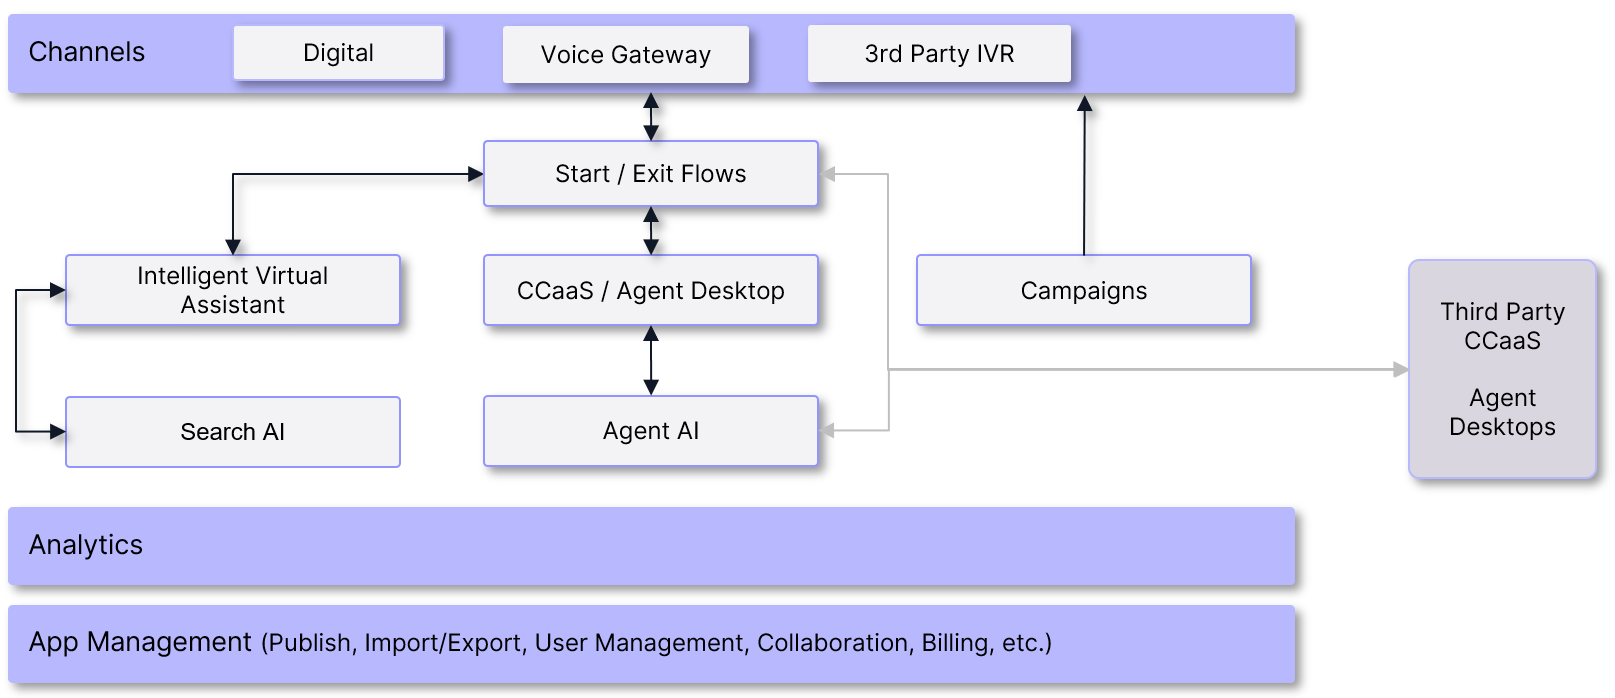
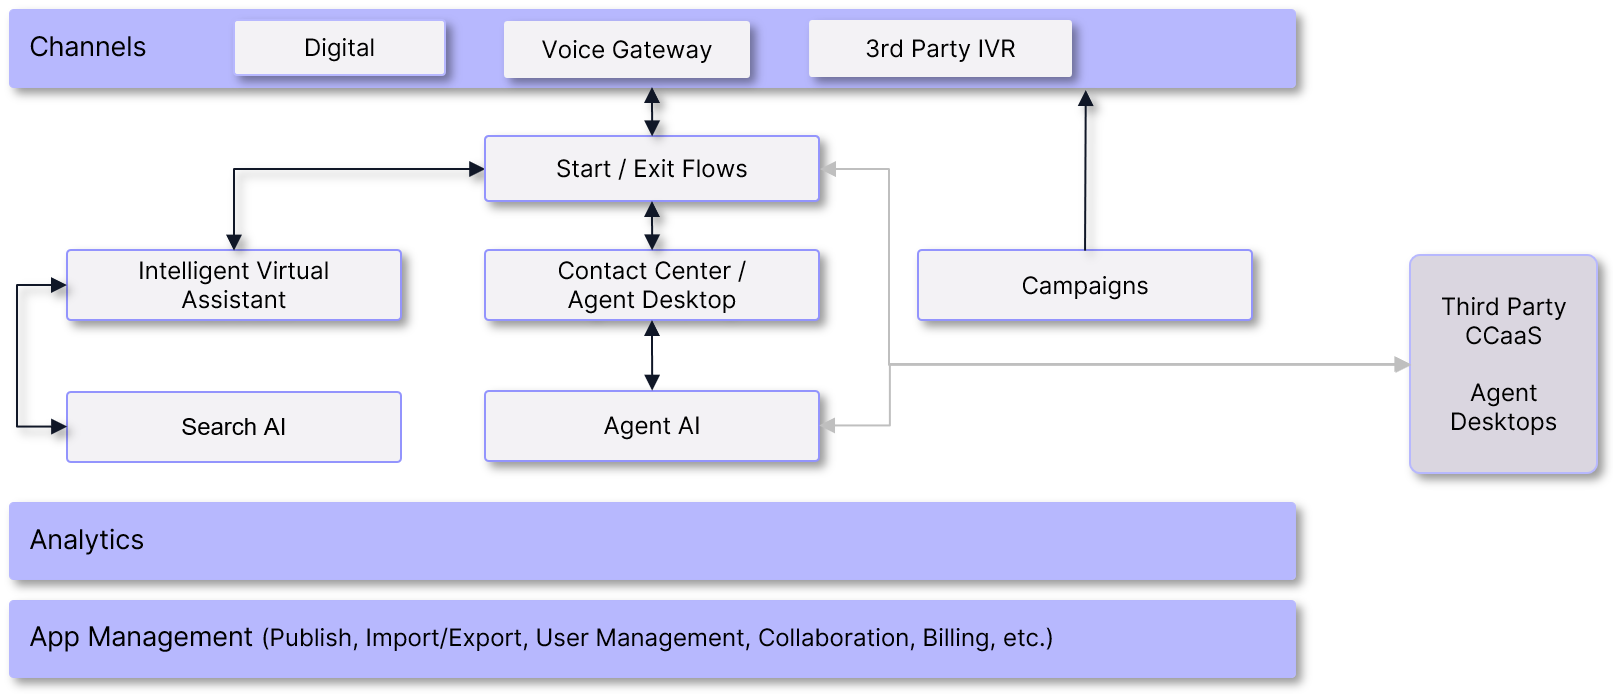
about xo platform

diff --git a/docs/xo/getting-started/about-xo-platform.md b/docs/xo/getting-started/about-xo-platform.md
@@ -16,9 +16,9 @@ The unified XO Platform offers a comprehensive suite of products, features, and 
 === "Automation AI"
 
     Automation AI offers sophisticated AI-powered tools for creating Virtual Assistants to handle customer interactions through intelligent automation. You can define specific use cases and utilize advanced Natural Language Processing (NLP) to handle complex interactions. You can also empower virtual assistants to handle interruptions and provide clarifications for more natural dialogues. It also offers testing tools to ensure a smooth and reliable user experience by identifying and fixing issues before deployment.
-
+    
     Key Features
-
+    
     * **Virtual Assistant Builder**: Enables the creation of intelligent virtual assistants.
     * **Multi-Model NLU**: Natural Language Understanding that uses multiple models to better understand user input.
     * **GenAI Framework**: A generative AI framework to enhance automation capabilities.  
@@ -28,9 +28,9 @@ The unified XO Platform offers a comprehensive suite of products, features, and 
 === "Search AI"
 
     Search AI offers AI-powered conversational search tools to quickly and accurately retrieve information from vast datasets and offer the most relevant piece of information to users. You can add multiple data sources to build your answer index, including website crawlers, structured data, unstructured documents, catalogs, and knowledge bases. You can also enrich and enhance your content to meet the specific needs of your users in accordance with your business needs. By combining Automation AI Use Cases and Search AI, businesses can create an exceptional, seamless conversational experience for their users.
-
+    
     Key Features
-
+    
     * **Knowledge AI with LLM**: Integrates large language models to enrich knowledge bases.
     * **Retrieval Augmented Generation**: Enhances information retrieval with generative AI.
     * **Advanced RAG**: An advanced version of retrieval augmented generation for improved search capabilities.  
@@ -40,9 +40,9 @@ The unified XO Platform offers a comprehensive suite of products, features, and 
 === "Contact Center AI"
 
     Contact Center AI offers a conversational AI-native Contact Center-as-a-service solution to enhance customer experience, increase revenue, and reduce operational costs. It helps create consistent, personalized, intelligent, and effortless customer and agent experiences across channels. You can leverage Automation AI Use Cases and Search AI to automate regular customer queries and seamlessly transfer them to a human agent as needed. The new Campaigns module helps streamline outbound voice and web campaigns. It provides templates and analytics to easily create targeted campaigns, reach audiences efficiently, track performance, and achieve goals more effectively.
-
+    
     Key Features
-
+    
     * **Routing & Experience Flows**: Manages the routing of queries and the flow of customer experiences.
     * **Agent Desktop**: Provides a centralized workspace for agents.
     * **Campaigns**: Tools for managing voice and proactive web campaigns.  
@@ -52,9 +52,9 @@ The unified XO Platform offers a comprehensive suite of products, features, and 
 === "Agent AI"
 
     Agent AI is your agent’s personal intelligent Virtual Assistant. It offers AI-native agent assistance to boost your contact center agents’ productivity and customer satisfaction. You can set up AI-powered automation workflows to empower your agents to deliver exceptional customer service by offering real-time assistance, the next best action, built-in Knowledge AI, automated assistance, and real-time guidance.
-
+    
     Key Features
-
+    
     * **Real-time AI suggestions**: Offers live AI-powered guidance to agents.
     * **Auto-fulfillment**: Automates the completion of tasks and processes.
     * **Agent Coaching & Playbooks**: Provides resources and strategies for agent training and performance.  
@@ -64,9 +64,9 @@ The unified XO Platform offers a comprehensive suite of products, features, and 
 === "Analytics"
 
     The Analytics Module provides a comprehensive 360-degree view of all voice and digital conversations across channels. It offers insightful dashboards, including containment information, conversation history, automation analytics, generative AI logs and analytics, search analytics, and contact center analytics. The module empowers your teams with data-driven insights, enabling them to make informed decisions to meet their targets.
-
+    
     Key Features
-
+    
     * **Virtual Agent - User Conversational Insights**: Analyzes and provides insights on interactions between users and virtual agents.
     * **Virtual Agent Performance Insights**: Monitors and evaluates the performance of virtual agents.
     * **Contact Center Quality Management Insights**: Offers insights to improve contact center operations.  
@@ -76,9 +76,9 @@ The unified XO Platform offers a comprehensive suite of products, features, and 
 === "Platform Services"
 
     Common services help manage the entire lifecycle of products and services easily. You can configure the settings and the services once and use them across the Platform for all products and services.
-
+    
     Key Services
-
+    
     * **Life Cycle Management**: Tools for managing the lifecycle of apps and services, including versioning, publishing, and collaboration.
     * **Multi-lingual Support**: Offers support for multiple languages.
     * **Pre-built Integrations**: Provides ready-to-use integrations with other systems.
@@ -90,17 +90,35 @@ The unified XO Platform offers a comprehensive suite of products, features, and 
 === "Enterprise Services"
 
     The Platform empowers enterprise customers with additional services.   
-
+    
     Key Services
-
+    
     * **Role-based Access Controls, Audit Logs**: Ensures security and accountability through access management and logging.
     * **Security, Compliance (SOC-2, PCI, FedRAMP, HIPAA, GDPR)**: Compliant with major security and privacy standards.
     * **Cloud and On-Premise Deployments**: Flexible deployment options.
     * **Scalability, Integrations, Authentication, and Authorization**: Ensures the Platform can scale and integrate securely with other systems.  
     
     [Learn more about Enterprise Services :octicons-arrow-right-24:](../administration/adminconsole.md)
-    
+
 <hr>
 
 ## Integrated Architecture for Omnichannel Customer Engagement
+The image below provides a high-level understanding of the XO platform's capabilities, the integrated nature of its components, and how they work together as an integrated system to support customer engagement across multiple channels.
+
 <img src="../images/xo-platform-components-flow.png">
+
+Various components and their interactions within the XO platform:
+
+1. At the top, it has different **Channels** or entry points: Digital, Voice Gateway, and 3rd Party IVR.
+2. These channels feed into the **Start / Exit Flows** component, which handles the interactions' initial and final stages.
+3. From there, the flow can branch out into other components based on the implementation:
+   - Automation flow: 
+     - **Intelligent Virtual Assistant**: The interaction is sent to the Virtual Assistant. It can handle complex interactions via Automation AI use cases and natural language processing.
+     - **Search AI**: In addition to Automation AI use cases, you can use Search AI to retrieve information from vast datasets and feed the most relevant information to users via the Virtual Assistant. 
+   - Agent transfer flow:
+     - **Contact Center / Agent Desktop**: The request is sent to Contact Center AI or Agent Desktop for live agent interactions.
+     - **Agent AI**: Provides AI-powered assistance and recommendations to human agents during interactions via Agent Desktop.
+     - **Third-Party Contact Center / Agent Desktop**: The request can be sent to external contact center solutions for live agent interactions.
+   - **Campaigns**: It can interact with the Contact Center to help you manage and execute marketing and customer outreach efforts via outbound voice and web campaigns.
+4. **Analytics** gathers data to provide insights into user interactions and system performance.
+5. **App Management** supports the entire platform with functionalities for publishing, importing/exporting apps, user management, collaboration, billing, etc.
